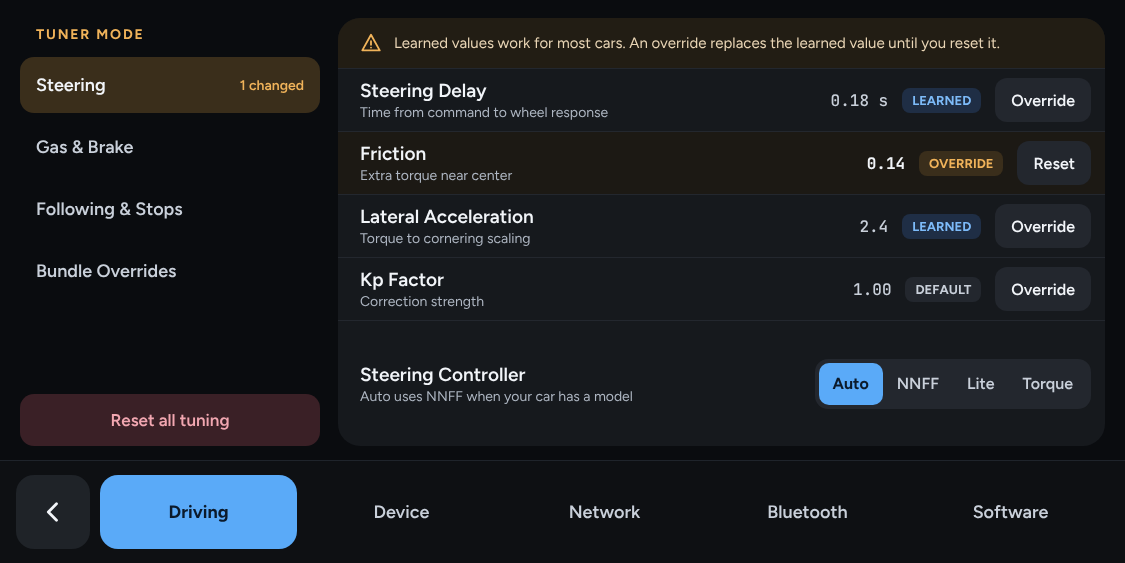
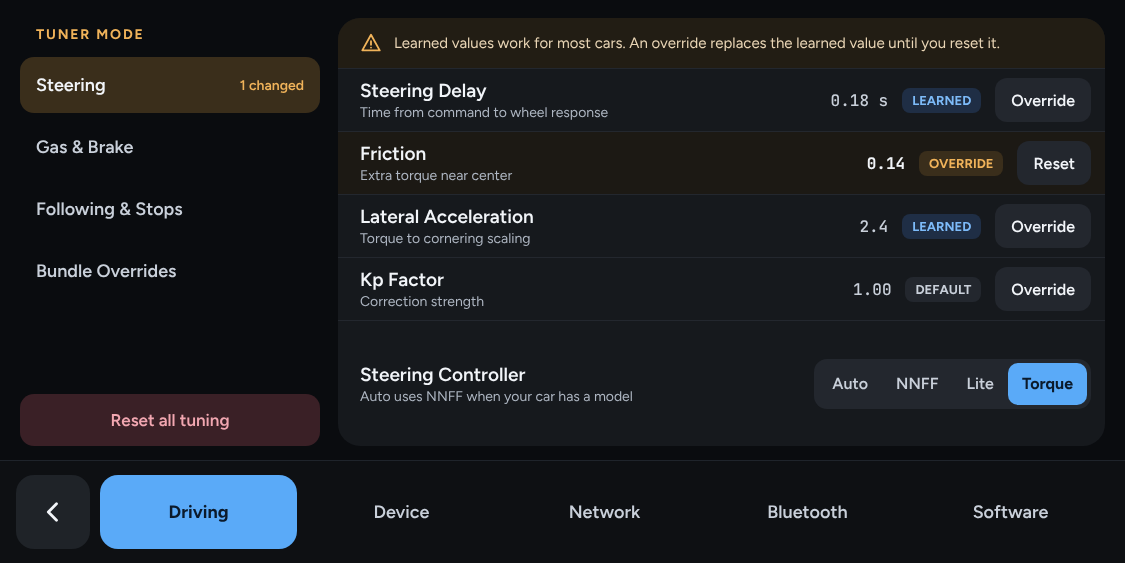
Tuner mock: Torque selected, the new default controller
Claude-Session: https://claude.ai/code/session_01R4pPc2hcx88Dbjjec1p8WC

Changed region(s): [[0.7156, 0.6341, 0.9644, 0.7247]]

diff --git a/selfdrive/ui/tandem/design/tuner.html b/selfdrive/ui/tandem/design/tuner.html
@@ -57,10 +57,10 @@ a{color:#7DBBF9}a:hover{color:#A9D3FB}
       <div style="display: flex; align-items: center; gap: 14px; padding: 0 14px 0 22px; height: 62px; flex-grow: 1;">
         <div style="flex-grow: 1; display: flex; flex-direction: column; gap: 2px;"><span style="font-size: 19px; font-weight: 600;">Steering Controller</span><span style="font-size: 14px; color: #AEB6C2;">Auto uses NNFF when your car has a model</span></div>
         <div role="radiogroup" aria-label="Steering controller" style="display: flex; background: #23272E; border-radius: 13px; padding: 4px;">
-          <button type="button" role="radio" aria-checked="true" style="font-family: inherit; border: 0; background: #5AAAF8; color: #0B1A2B; height: 42px; padding: 0 14px; border-radius: 10px; font-size: 16px; font-weight: 700;">Auto</button>
+          <button type="button" role="radio" aria-checked="false" style="font-family: inherit; border: 0; background: transparent; color: #C9D0DA; height: 42px; padding: 0 14px; border-radius: 10px; font-size: 16px; font-weight: 600;">Auto</button>
           <button type="button" role="radio" aria-checked="false" style="font-family: inherit; border: 0; background: transparent; color: #C9D0DA; height: 42px; padding: 0 14px; border-radius: 10px; font-size: 16px; font-weight: 600;">NNFF</button>
           <button type="button" role="radio" aria-checked="false" style="font-family: inherit; border: 0; background: transparent; color: #C9D0DA; height: 42px; padding: 0 14px; border-radius: 10px; font-size: 16px; font-weight: 600;">Lite</button>
-          <button type="button" role="radio" aria-checked="false" style="font-family: inherit; border: 0; background: transparent; color: #C9D0DA; height: 42px; padding: 0 14px; border-radius: 10px; font-size: 16px; font-weight: 600;">Torque</button>
+          <button type="button" role="radio" aria-checked="true" style="font-family: inherit; border: 0; background: #5AAAF8; color: #0B1A2B; height: 42px; padding: 0 14px; border-radius: 10px; font-size: 16px; font-weight: 700;">Torque</button>
         </div>
       </div>
     </div>
